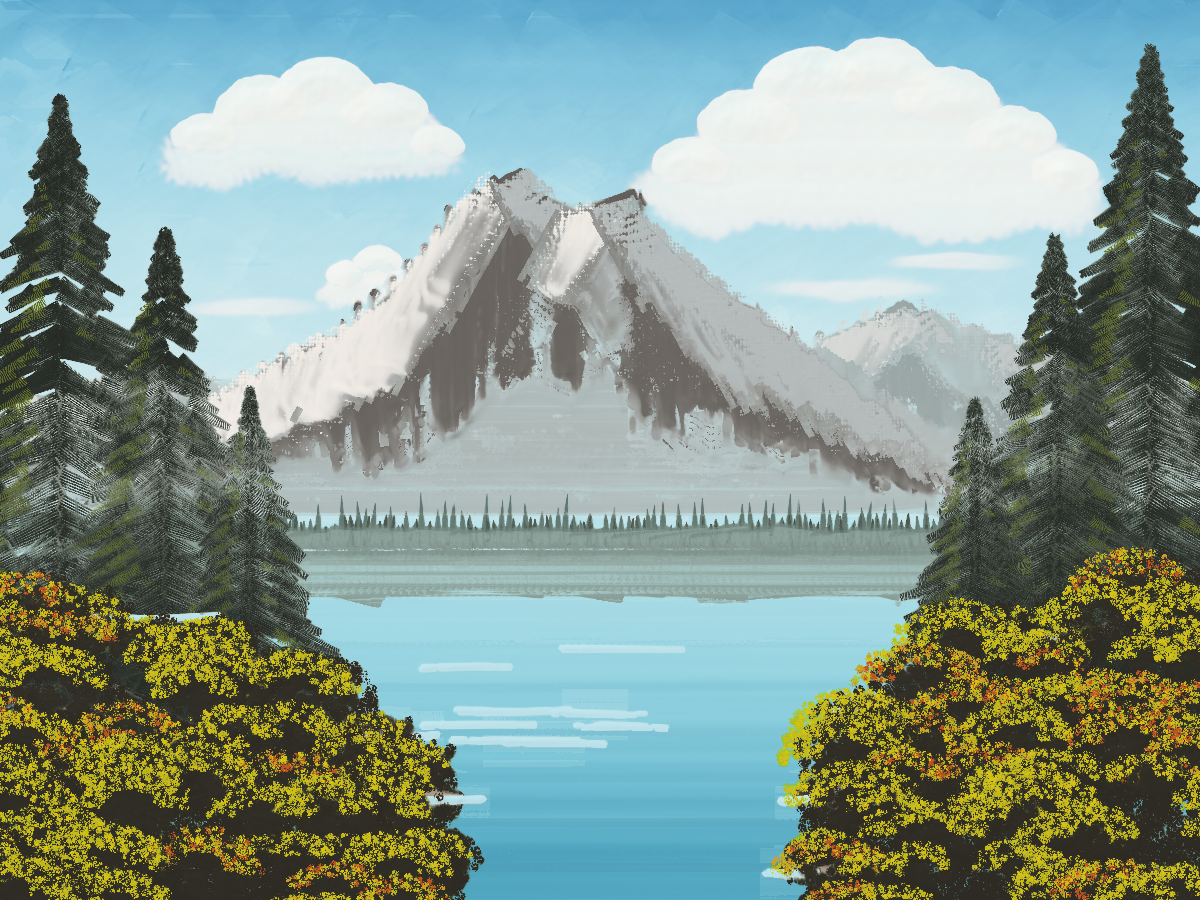
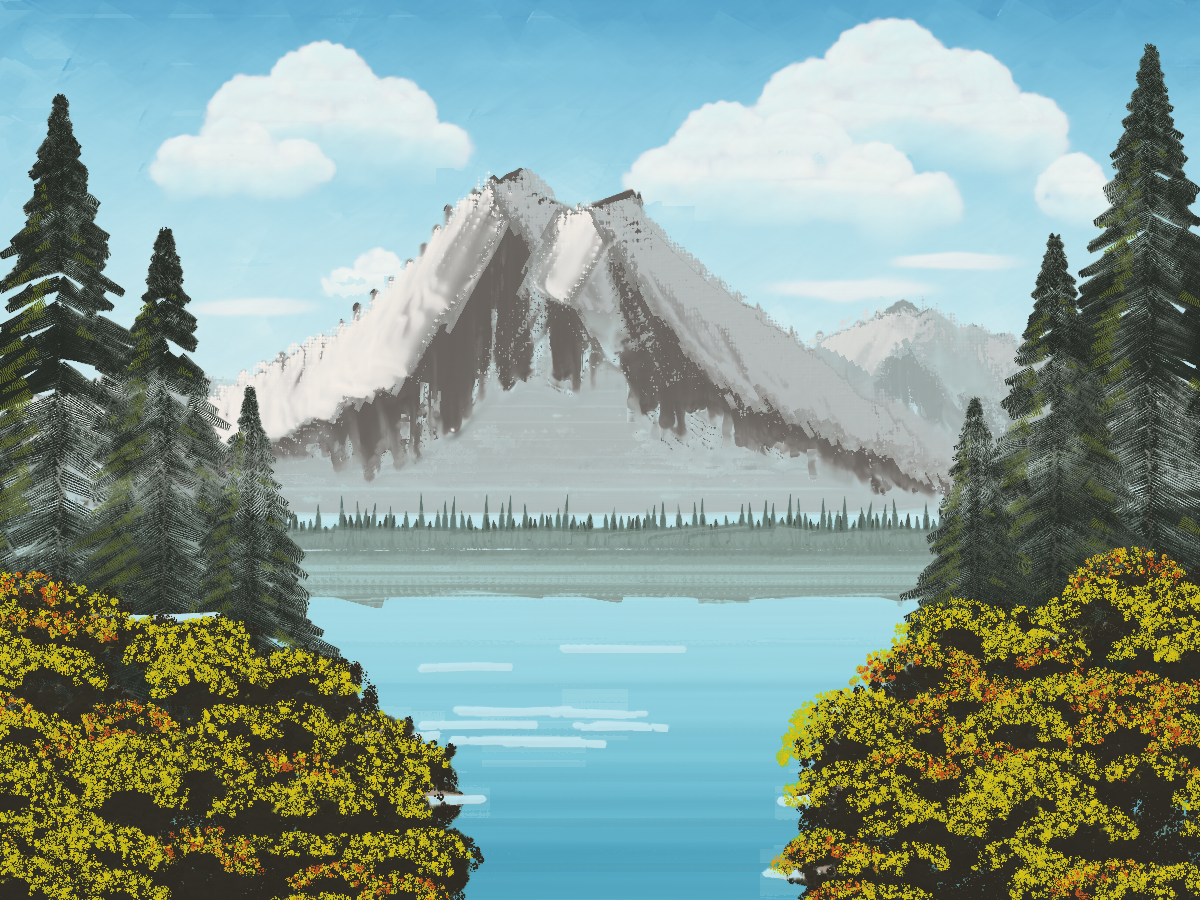
Bob Ross: paint the clouds the way he did (#25)
The clouds were built unlike his: three passes of a clean brush lifting
the wet blue, the whole body in one long stroke of white, perfect circles
heaped on a ruled base, and no blending. They came out flat white from
top to bottom, with a hard base.

Now each cloud is several masses, the farthest first, each painted as he
paints one:

- titanium white scrubbed straight onto the wet sky with little circles,
  along the top of each billow first, then down into the body, the brush
  full and barely pressed, reloaded every few widths;
- the base blended with a clean, dry brush: little circles along the
  bottom, again higher and lighter, never touching the top edge. It
  churns the white into the wet blue and lifts nothing off (mixing 1,
  pickup 0);
- fluffed with short strokes lifted up from the base, then brushed once
  across, very lightly.

Measured on the big cloud (1: clean white, 0: the sky beside it), the
white falls from 0.85 near the top to 0.58 near the base instead of 0.95
to 0.88, and the base melts into the sky over 36 px instead of 7.

The script only; the engine is unchanged. All of examples/output/ was
regenerated: only bob_ross_style.png differs. Beyond the clouds, the
marks painted after them keep their places and take new textures, since
the canvas hands out its random numbers stroke by stroke.

Closes oilpaint-6h9.

Claude-Session: https://claude.ai/code/session_01EHReof4EkUcwdt9dmfa9d9

diff --git a/examples/bob_ross_style.py b/examples/bob_ross_style.py
@@ -6,8 +6,8 @@ one sitting, everything wet:
 * the canvas coated with a thin film of Liquid White, so every colour after
   it blends softly;
 * the sky in criss-cross strokes with a two-inch brush; clouds scrubbed in
-  with little circles, their puffs bright on top, their bases melting into
-  the blue;
+  with little circles of white, then their bases blended into the blue with
+  a clean, dry brush, one mass of cloud in front of another;
 * the mountain cut in with the palette knife, its snow laid on with almost
   no pressure so it breaks over the dark paint, and mist tapped in at its base;
 * distant trees tapped in with a fan brush, evergreens built from the top
@@ -21,7 +21,6 @@ Every mark is a ``canvas.stroke(...)``; numpy only decides where they go.
 """
 
 import itertools
-import operator
 import os
 import sys
 import time
@@ -303,18 +302,33 @@ def paint_sky():
         )
 
 
-def cloud_top(puffs, base):
-    """The top edge of a cloud: round puffs (x, y, radius) heaped on a flat base."""
+def cloud_top(billows):
+    """The top edge of a mass of cloud: round billows (x, y, radius) heaped together."""
 
     def top(x):
         x = np.asarray(x, float)
         t = np.full(x.shape, np.inf)
-        for px, py, pr in puffs:
+        for px, py, pr in billows:
             d = pr**2 - (x - px) ** 2
             t = np.where(d > 0, np.minimum(t, py - np.sqrt(np.clip(d, 0, None))), t)
         return t
 
     return top
+
+
+def cloud_base(billows, xs, drop):
+    """How far down the white of a mass of cloud is carried, at each of ``xs``:
+    ``drop`` radii below the middles of its billows, an uneven line, rising to
+    meet the top at both ends, where the cloud is thinner."""
+    base = np.full(xs.shape, -np.inf)
+    for px, py, pr in billows:
+        base = np.where(np.abs(xs - px) < pr, np.maximum(base, py + drop * pr), base)
+    known = np.isfinite(base)
+    base = np.interp(xs, xs[known], base[known])
+    base = np.convolve(np.pad(base, 20, mode="edge"), np.ones(41) / 41, "valid")
+    ends = np.minimum(xs - xs[0], xs[-1] - xs)
+    r_end = min(billows[0][2], billows[-1][2])
+    return base - 0.8 * drop * r_end * np.clip(1 - ends / (1.2 * r_end), 0, 1) ** 2
 
 
 def scrub_path(a, b, rr, advance, r):
@@ -328,42 +342,58 @@ def scrub_path(a, b, rr, advance, r):
     return c + np.stack([rr * np.cos(t + phase), rr * 0.8 * np.sin(t + phase)], 1)
 
 
-def scrub_rows(top, x0, x1, y_from, y_to, size, r, inset=0.48, ragged=0.0, base=None):
-    """Scrub the inside of a cloud row after row, from ``y_from`` to ``y_to``,
-    back and forth. ``ragged`` wobbles the rows near the base so it isn't ruled."""
-    xs = np.arange(x0, x1, 2.0)
-    step = size * 0.45
-    pts, flip = [], False
-    for y in np.arange(y_from, y_to, step if y_to > y_from else -step):
-        y += r.normal(0, step * 0.1)
-        inside = top(xs) + size * inset <= y
-        if not inside.any():
-            continue
+def scrub_along(pts, rr, advance, r):
+    """Little scrubbing circles travelling along the line through ``pts``."""
+    path = []
+    for p, q in itertools.pairwise(pts):
+        path.extend(scrub_path(p, q, rr, advance, r))
+    return np.array(path)
+
+
+def cloud_rim(billows, inset):
+    """The line a brush follows to draw the top edge of a mass of cloud: over
+    the top of each billow in turn, from left to right, ``inset`` inside it."""
+    pts = []
+    for k, (px, py, pr) in enumerate(billows):
+        others = [b for j, b in enumerate(billows) if j != k]
+        rr = max(pr - inset, 1.0)
+        for a in np.linspace(np.pi, 2 * np.pi, max(4, int(np.pi * rr / 8))):
+            x, y = px + rr * np.cos(a), py + rr * np.sin(a)
+            if all(
+                np.hypot(x - ox, y - oy) > max(orr - inset, 1.0)
+                for ox, oy, orr in others
+            ):
+                pts.append((x, y))
+    return np.array(pts)
+
+
+def scrub_rows(billows, base, xs, size, r):
+    """The path of the brush that scrubs in a mass of cloud: along its top edge
+    first, billow by billow, then the inside, row after row down to the base,
+    back and forth."""
+    inset = size * 0.42  # the brush's middle stays this far inside the top edge
+    upper, lower = cloud_top(billows)(xs), base(xs)
+    pts, flip = (
+        list(scrub_along(cloud_rim(billows, inset), size * 0.18, size * 0.32, r)),
+        True,
+    )
+    for y in np.arange(upper.min() + inset + size * 0.42, lower.max(), size * 0.42):
+        y += r.normal(0, size * 0.04)
+        inside = (upper + inset <= y) & (y <= lower)
         edges = np.flatnonzero(np.diff(np.r_[0, inside.astype(int), 0]))
         runs = [
-            (xs[s] + size * inset * 0.3, xs[e - 1] - size * inset * 0.3)
-            for s, e in zip(edges[::2], edges[1::2], strict=False)
+            (xs[s] + size * 0.12, xs[e - 1] - size * 0.12)
+            for s, e in zip(edges[::2], edges[1::2], strict=True)
+            if xs[e - 1] - xs[s] > size * 0.3
         ]
         if flip:
             runs = [(b, a) for a, b in runs[::-1]]
-        wob = (
-            ragged * size * np.clip(1 - (base - y) / size, 0, 1)
-            if base is not None
-            else 0.0
-        )
         for a, b in runs:
             knots = np.linspace(a, b, max(2, int(abs(b - a) / size) + 1))
-            ys = y + r.normal(0, wob + 1e-9, len(knots))
-            for k in range(len(knots) - 1):
-                pts.extend(
-                    scrub_path(
-                        (knots[k], ys[k]),
-                        (knots[k + 1], ys[k + 1]),
-                        size * 0.2,
-                        size * 0.35,
-                        r,
-                    )
-                )
+            ys = y + r.normal(0, size * 0.05, len(knots))
+            pts.extend(
+                scrub_along(np.stack([knots, ys], 1), size * 0.18, size * 0.32, r)
+            )
         flip = not flip
     return np.array(pts)
 
@@ -372,80 +402,82 @@ def path_length(pts):
     return float(np.linalg.norm(np.diff(pts, axis=0), axis=1).sum())
 
 
-def cloud(puffs, base, size=50, seed=0):
-    """A cumulus, the way he builds one: puffs of clean white with bright tops,
-    heaped on a flat base that melts into the sky.
+def cloud_white(path, size):
+    """Scrub the white of a cloud in along ``path``, straight onto the wet sky:
+    a full brush, barely pressed, so that it lays the white on the blue more
+    than it stirs it in; reloaded every few widths, fullest at the top, where
+    the cloud is brightest, and running thin towards the base."""
+    along = np.r_[0, np.cumsum(np.linalg.norm(np.diff(path, axis=0), axis=1))] / size
+    y_top, y_base = path[:, 1].min(), path[:, 1].max()
+    reload_every = 7.0  # brush widths of scrubbing
+    for k in range(int(along[-1] // reload_every) + 1):
+        go = (along >= k * reload_every - 0.3) & (along < (k + 1) * reload_every)
+        if go.sum() < 3:
+            continue
+        part = path[go]
+        depth = (part[:, 1] - y_top) / max(1.0, y_base - y_top)
+        amount = 2.6 * (1 - 0.55 * depth.mean()) * path_length(part) / size
+        b = loaded(CLOUD_BRUSH.sized(size), thin(TITANIUM_WHITE), amount)
+        st(part, None, brush=b, pressure=list(0.15 - 0.03 * depth))
 
-    Wet-on-wet, white scrubbed into the blue turns blue. So first he lifts
-    some of the wet blue where the bright puffs will go, with a clean brush
-    (wiped after every few circles). Then the white is scrubbed in with little
-    circles in one long go, top down: where the blue was lifted it stays white;
-    lower down, pressed a little harder into the blue, it turns a soft blue-grey
-    and the base dissolves. Last, each puff's sunlit top is laid in with clean
-    white, the ones at the back first, so each puff in front stands out
-    against the shadowed underside of the one behind it."""
+
+def cloud(billows, size=40, seed=0, drop=1.0):
+    """One mass of cloud, the way he paints one.
+
+    Titanium white on the corner of a brush, scrubbed straight onto the wet
+    sky with tiny circles: first the top, where the billows (x, y, radius) give
+    it its shape, then down into the body with what is left on the brush.
+    Then a clean, dry brush blends the base: little circles along the bottom,
+    again a little higher and lighter each time, never touching the top edge,
+    so the white there is worked into the wet blue and melts away, a soft
+    blue-grey. It is fluffed, with short strokes lifted up from the base,
+    barely touching, and last brushed once across, very lightly.
+
+    A cloud is several such masses, the farthest first: each is finished
+    before the next goes in, so the bright top of the one in front stands
+    against the blended base of the one behind."""
     r = np.random.default_rng(seed)
-    top = cloud_top(puffs, base)
-    x0 = min(px - pr for px, py, pr in puffs) - 10
-    x1 = max(px + pr for px, py, pr in puffs) + 10
-    y_top = min(py - pr for px, py, pr in puffs)
-    # just below the lowest puff's middle
-    lift_to = max(py for px, py, pr in puffs) + size * 0.3
-    # lift the blue: three passes, a clean brush every few circles
-    for _ in range(3):
-        path = scrub_rows(top, x0, x1, y_top, lift_to, size * 0.89, r, inset=0.34)
-        for chunk in np.array_split(path, max(1, len(path) // 21)):
-            if len(chunk) > 2:
-                st(
-                    chunk,
-                    None,
-                    brush=Brush(CLOUD_BRUSH.sized(size * 0.8)),
-                    pressure=0.9,
-                    pickup=1.0,
-                )
-    # the body: one long scrub from the top down. (One stroke, so the brush works
-    # into its own wet white; a new stroke over it would leave a seam at its soft edge.)
-    path = scrub_rows(
-        top,
-        x0,
-        x1,
-        y_top + size * 0.3,
-        base - size * 0.2,
-        size,
-        r,
-        ragged=0.25,
-        base=base,
+    xs = np.arange(
+        min(px - pr for px, py, pr in billows),
+        max(px + pr for px, py, pr in billows),
+        2.0,
     )
-    below = np.clip((path[:, 1] - lift_to) / (base - lift_to), 0, 1)
-    pressure = (0.35 + 0.25 * below**1.5) * (
-        1 + 0.1 * np.sin(np.arange(len(path)) * 2 * np.pi / 14)
+    base = cloud_base(billows, xs, drop)
+    cloud_white(
+        scrub_rows(billows, lambda x: np.interp(x, xs, base), xs, size, r), size
     )
-    total = 0.3 * path_length(path) / size
-    b = Brush(CLOUD_BRUSH.sized(size)).load(thin(TITANIUM_WHITE), min(total, 12))
-    if total > 12:  # more than the hair holds: the rest is worked up into the heel
-        # (pressing squeezes it out as he goes)
-        b.load(thin(TITANIUM_WHITE), total - 12, depth="heel")
-    st(path, None, brush=b, pressure=list(pressure), pickup=0.05)
-    # the sunlit tops: each puff filled from its rim inwards with clean white,
-    # with a firmer brush, so the tops stay crisp; the puffs at the back first
-    w = size * 0.6
-    for px, py, pr in sorted(puffs, key=operator.itemgetter(1)):
-        path = []
-        for k, R in enumerate(np.arange(pr - w * 0.45, pr * 0.35, -w * 0.35)):
-            span = 0.8 * np.sqrt(R / pr)
-            angles = np.linspace(np.pi * (1.5 - span / 2), np.pi * (1.5 + span / 2), 7)[
-                :: 1 if k % 2 == 0 else -1
-            ]
-            arc = [(px + R * np.cos(a), py + R * np.sin(a)) for a in angles]
-            for p, q in itertools.pairwise(arc):
-                path.extend(scrub_path(p, q, w * 0.15, w * 0.3, r))
-        path = np.array(path)
-        b = loaded(
-            CLOUD_BRUSH.sized(w).with_(softness=0.1),
-            thin(TITANIUM_WHITE),
-            1.6 * path_length(path) / w,
+    # blending churns the white into the wet blue and lifts nothing off
+    blender = MIST_BRUSH.sized(size * 1.3)
+    w = blender.width
+    along = np.stack([xs[::8], base[::8]], 1)
+    for k, (below, pressure) in enumerate(((0.3, 0.4), (0.0, 0.32), (-0.35, 0.2))):
+        line = along + [0, below * w] + r.normal(0, [0, 2], along.shape)
+        st(
+            scrub_along(line[:: -1 if k % 2 else 1], w * 0.2, w * 0.3, r),
+            None,
+            brush=Brush(blender),
+            pressure=pressure,
+            mixing=1.0,
+            pickup=0.0,
         )
-        st(path, None, brush=b, pressure=0.3, pickup=0.03)
+    for x, y in along[:: max(1, int(w * 0.4 / 16))]:  # fluff it
+        st(
+            [(x, y + w * 0.3), (x + r.normal(0, 4), y - w * 0.45)],
+            None,
+            brush=Brush(blender),
+            pressure=[0.2, 0.04],
+            mixing=1.0,
+            pickup=0.0,
+        )
+    y = float(base.mean())
+    st(
+        [(xs[0] - 10, y + 6), ((xs[0] + xs[-1]) / 2, y + 2), (xs[-1] + 10, y + 6)],
+        None,
+        brush=Brush(blender.sized(w * 1.5)),
+        pressure=0.1,
+        mixing=1.0,
+        pickup=0.0,
+    )
 
 
 def wisp(x0, x1, y, width, seed=0):
@@ -479,30 +511,34 @@ def wisp(x0, x1, y, width, seed=0):
 
 
 # puffs (x, y, radius) of each cloud, and its base
-BIG_CLOUD = (
-    [
-        (690, 182, 44),
-        (748, 146, 56),
-        (812, 112, 64),
-        (880, 100, 62),
-        (948, 126, 58),
-        (1012, 156, 50),
-        (1064, 188, 38),
-    ],
-    228,
-)
-LEFT_CLOUD = (
-    [(205, 152, 38), (262, 126, 50), (325, 112, 54), (388, 130, 46), (436, 156, 30)],
-    186,
-)
-SMALL_CLOUD = ([(345, 284, 22), (378, 274, 28), (412, 288, 18)], 302)
+# the masses of each cloud, the farthest first: its billows (x, y, radius) from
+# left to right, and the size of the brush
+BIG_CLOUD = [
+    ([(814, 115, 59), (888, 86, 71), (961, 103, 59), (1025, 136, 47)], 48),
+    ([(1074, 185, 35), (1121, 202, 26)], 33),
+    (
+        [
+            (666, 183, 40),
+            (725, 152, 54),
+            (800, 162, 59),
+            (871, 183, 47),
+            (930, 200, 33),
+        ],
+        44,
+    ),
+]
+LEFT_CLOUD = [
+    ([(253, 119, 48), (322, 99, 60), (391, 122, 48), (444, 149, 30)], 44),
+    ([(187, 165, 34), (237, 152, 41), (297, 168, 34)], 37),
+]
+SMALL_CLOUD = [([(345, 284, 20), (378, 272, 27), (412, 286, 18)], 26)]
 
 
 def paint_clouds():
     stage("clouds")
-    cloud(*BIG_CLOUD, size=50, seed=1)
-    cloud(*LEFT_CLOUD, size=42, seed=2)
-    cloud(*SMALL_CLOUD, size=28, seed=3)
+    masses = itertools.chain(BIG_CLOUD, LEFT_CLOUD, SMALL_CLOUD)
+    for seed, (billows, size) in enumerate(masses, start=1):
+        cloud(billows, size, seed=seed)
     # and a few thin streaks low in the sky, just above the far mountains
     wisp(740, 970, 290, 82, seed=4)
     wisp(850, 1040, 262, 60, seed=5)

diff --git a/CHANGELOG.md b/CHANGELOG.md
@@ -49,6 +49,19 @@ adheres to [Semantic Versioning](https://semver.org/spec/v2.0.0.html).
 
 ### Changed
 
+- The Bob Ross example paints its clouds the way he did. Titanium white is
+  scrubbed straight onto the wet sky with little circles, along the top of
+  each billow first and then down into the body; a clean, dry brush blends
+  the base into the blue, fluffs it, and is drawn once across. A cloud is
+  several such masses, the farthest first, so the bright top of one stands
+  against the blended base of the one behind. (They were one long stroke of
+  white each, over sky lifted beforehand with a clean brush, on a ruled
+  base, and never blended: flat white from top to bottom.) Measured on the
+  big cloud, where 1 is clean white and 0 the sky beside it: the white now
+  falls from 0.85 near the top to 0.58 near the base instead of 0.95 to
+  0.88; the base melts into the sky over 36 px (from 20% to 80%) instead of
+  7, the top edge over 3 px instead of 2. The script only; the engine is
+  unchanged.
 - A wide brush pressed hard through thick paint no longer throws the paint
   under its middle out to its sides. Under a plate the paint has to travel
   to an edge to get out, and the further in the slower: now only paint
